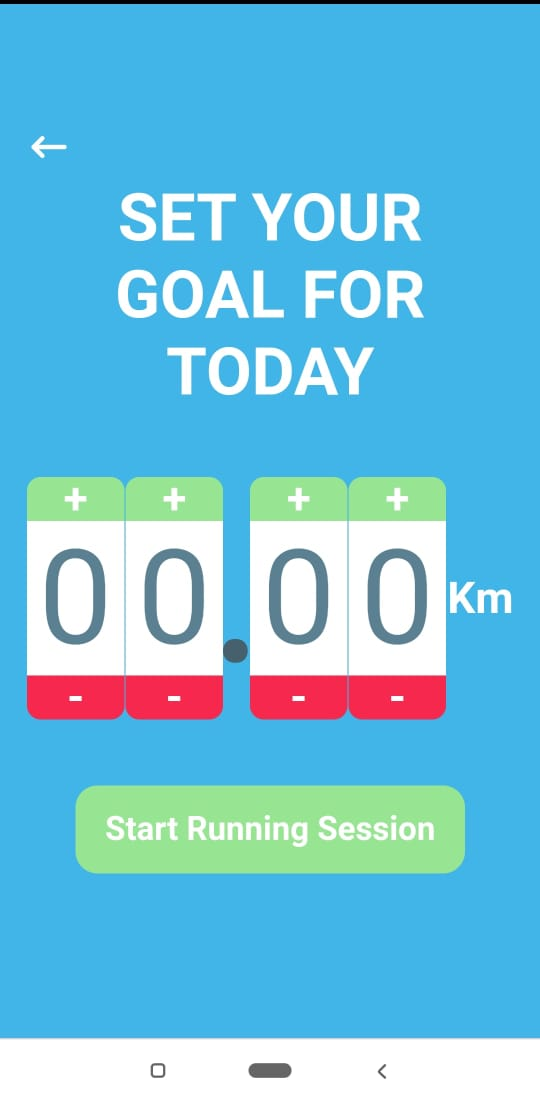
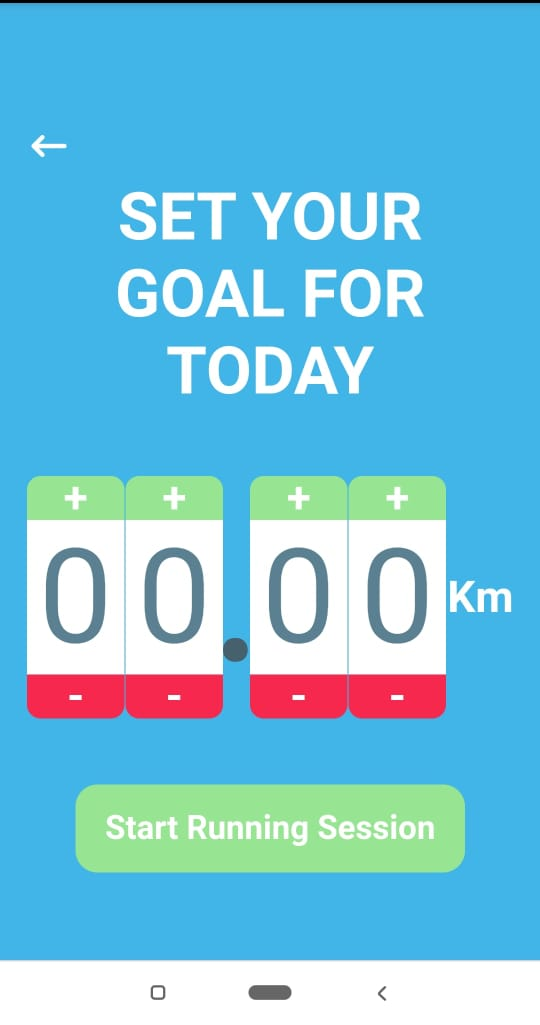
Change screenshot5 and 6

diff --git a/src/pages/run/styles/RunScreen.module.scss b/src/pages/run/styles/RunScreen.module.scss
@@ -62,6 +62,6 @@
   font-size: 2rem;
   margin-top: 3rem;
   position: absolute;
-  bottom: 5%;
+  bottom: 11%;
   left: 10%;
 }
